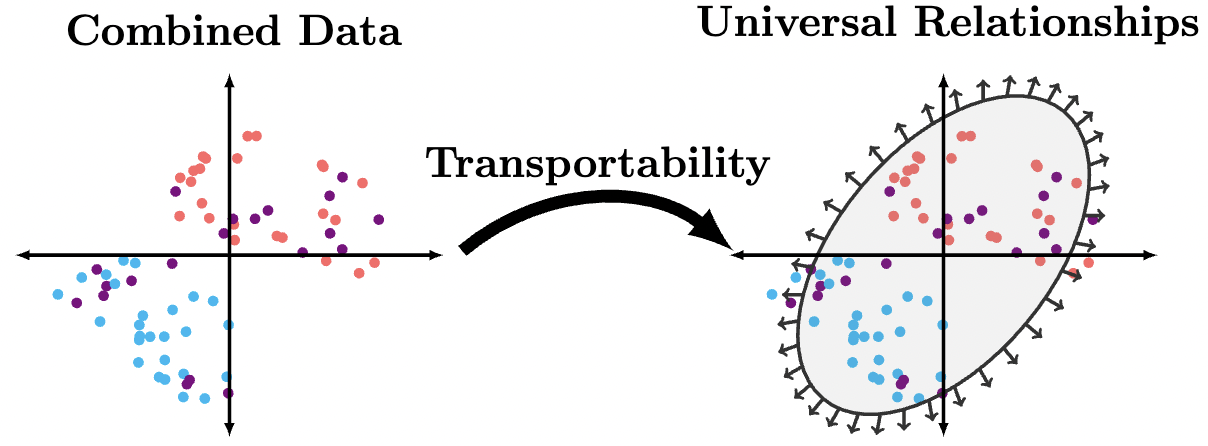
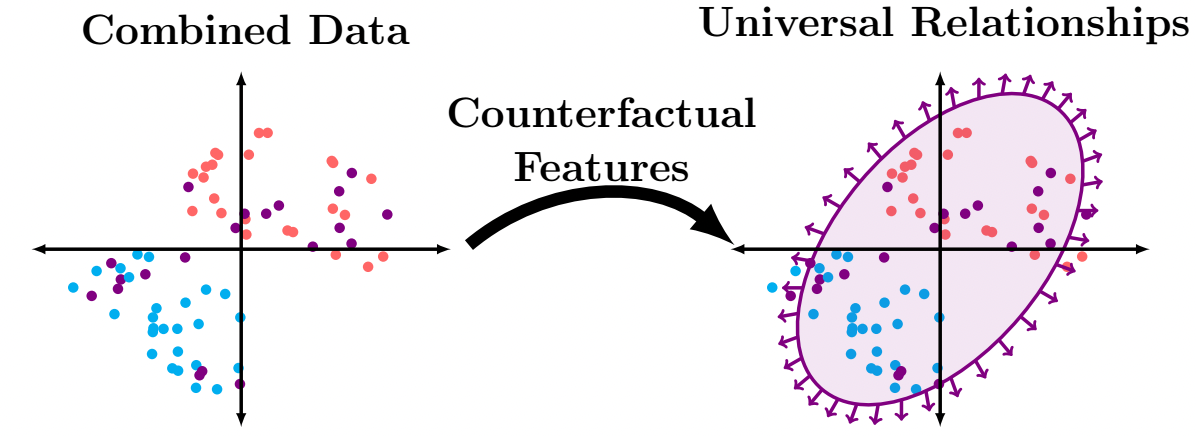
remove transportability

diff --git a/content/project/covariateshift/index.md b/content/project/covariateshift/index.md
@@ -1,5 +1,5 @@
 ---
-title: Distribution Shift and Transportability
+title: Distribution Shift and Conterfactual Features
 summary: 'Statistical prediction models are often trained on data that is drawn from different probability distributions than their eventual use cases. My work uses insights from causal inference to develop new methods for building machine learning models that are robust to environmental changes.'
 date: '2016-04-27T00:00:00Z'
 weight: 3
@@ -32,3 +32,5 @@ makes obtaining perfectly relevant data difficult. Data gathering mechanisms can
 distorted training data. Even in the absence of sampling biases, populations, environments, and interventions give rise to distribution shifts in their own right.
 
 Fusing data sources also fuses the support on which our models are expected to perform well, but we are still limited to the situations we have seen. If we want generalization outside of our gathered data, we need to build models that are invariant to the mechanisms that can modify the distribution. Physicists have successfully determined ``universal'' laws using extremely precise measurements of simple systems. The setting becomes challenging when our data is limited to proxies of the underlying components of complex systems, as is often the case with medical data.
+
+One surprising fact is that augmenting models with "counterfactual features" (motivated by the causal-structure) can improve model robustness to distrbution shift. As an example, we have looked at income prediction on US census data using education level, commute time, and medicaid status -- all three of which were shifted by the pandemic. Building a model on "education" and the answer to the question "What education level would we expect, if the individual were high income, based on the individual's commute time and medicaid status?" is more stable than the naive choice of all three features. The answer to the counterfactual question is easily obtained from training a model to predict education using commute time on only high-income data.

diff --git a/content/_index.md b/content/_index.md
@@ -23,7 +23,7 @@ sections:
             {{< button relref="/running" >}}Running{{< /button >}}
           </div>
           <div style="text-align: center;">
-            {{< figure src="ResearchGraphic.png" id="ResearchGraphic" >}}
+            {{< figure src="ResearchGraphic2.png" id="ResearchGraphic2" >}}
           </div>
         </dif>
 ---
